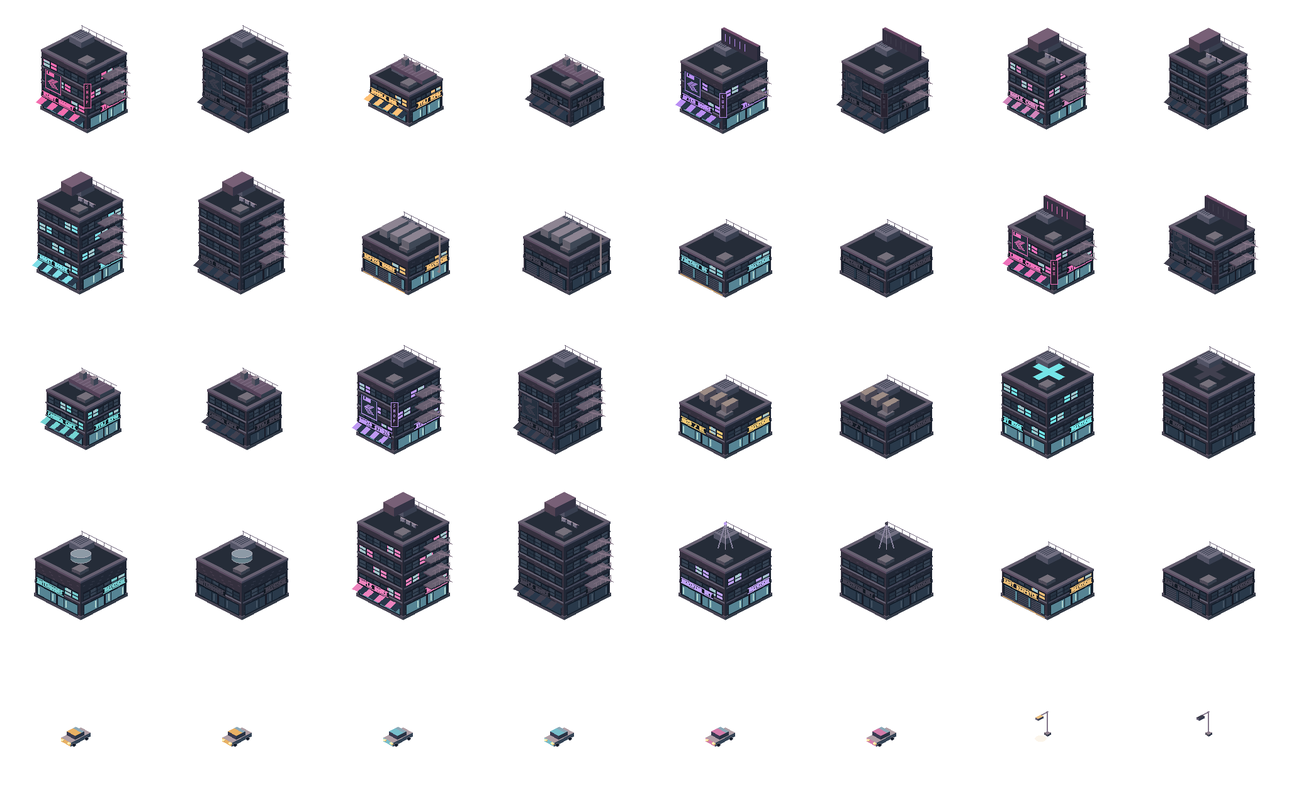
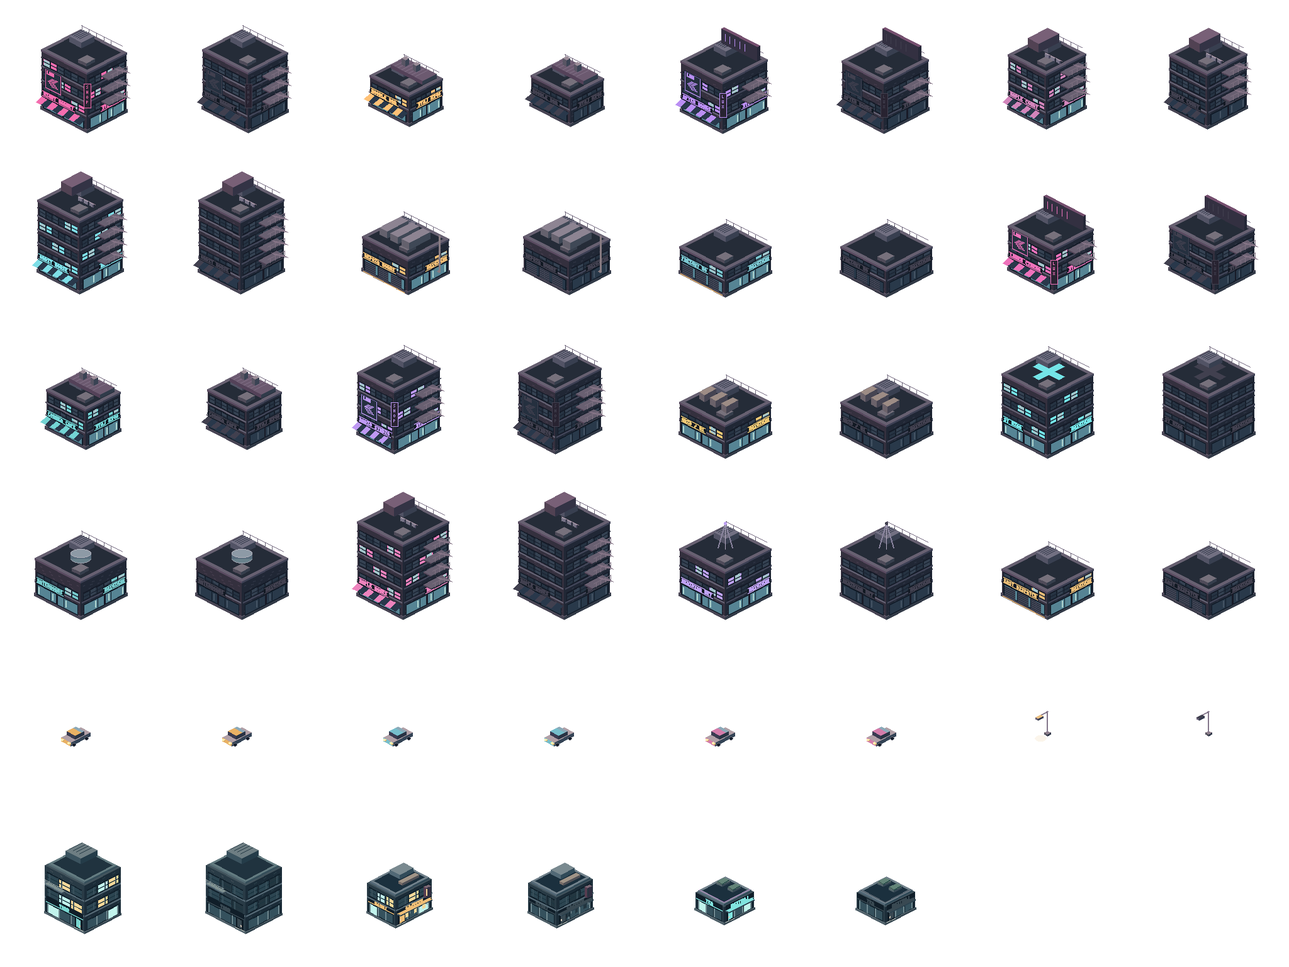
feat: author aligned Lantern Yard architecture and courtyard

diff --git a/tests/browser/lantern-yard.spec.ts b/tests/browser/lantern-yard.spec.ts
@@ -1,0 +1,50 @@
+import {test,expect} from '@playwright/test';
+import {iso} from '../../src/geometry';
+
+test('Lantern Yard is reachable, scenery blocks inspection, and outage lighting restores',async({page},info)=>{
+  await page.emulateMedia({reducedMotion:'reduce'});
+  await page.goto('./');const host=page.locator('.city-canvas');
+  await expect(page.locator('canvas')).toBeVisible();
+  const target=iso(-17.5,-17.5);
+  async function visitYard(){
+    const expand=page.getByRole('button',{name:'Expand minimap'});
+    if(await expand.isVisible())await expand.click();
+    const map=page.getByRole('application',{name:'Interactive city minimap'});
+    if(info.project.name==='desktop'){
+      const landmarks=page.getByRole('combobox',{name:'Minimap landmark navigation'});
+      await landmarks.selectOption('foundry');await landmarks.selectOption('lantern');
+    }else{
+    const point=await map.evaluate((el,p)=>{
+      const q=new DOMPoint(p.x,p.y).matrixTransform((el as SVGSVGElement).getScreenCTM()!);
+      return {x:q.x,y:q.y};
+    },target);
+    await page.touchscreen.tap(point.x,point.y);
+      await page.getByRole('button',{name:'Collapse minimap'}).click();
+    }
+  }
+  await visitYard();
+  await page.locator('.world').screenshot({path:info.outputPath('yard-normal.png')});
+  for(let i=0;i<3;i++)await page.getByRole('button',{name:'Zoom in'}).click();
+  // Near the world edge the initial wide viewport is bounded; recenter after zoom.
+  await visitYard();
+  // A ground-floor facade point on the café is scenery, not a new service.
+  const facade=iso(-17.05,-16.45,12);
+  const view=await host.evaluate(el=>JSON.parse((el as HTMLElement).dataset.camera!));
+  const box=(await host.boundingBox())!;
+  const point={x:box.x+view.origin.x+view.pan.x+facade.x*view.scale,y:box.y+view.origin.y+view.pan.y+facade.y*view.scale};
+  expect(point.x).toBeGreaterThan(box.x);expect(point.x).toBeLessThan(box.x+box.width);
+  expect(point.y).toBeGreaterThan(box.y);expect(point.y).toBeLessThan(box.y+box.height);
+  if(info.project.name==='mobile')await page.touchscreen.tap(point.x,point.y);
+  else await page.mouse.click(point.x,point.y);
+  await expect(page.getByRole('region',{name:'Building inspection'})).not.toBeVisible();
+  await page.locator('.world').screenshot({path:info.outputPath('yard-close.png')});
+  const lit=await page.locator('canvas').screenshot();
+  await page.getByRole('button',{name:'Remove electricity',exact:true}).click();
+  await page.getByRole('button',{name:'Pause simulation'}).click();
+  await page.locator('.world').screenshot({path:info.outputPath('yard-outage.png')});
+  const dark=await page.locator('canvas').screenshot();expect(dark.equals(lit)).toBe(false);
+  await page.getByRole('button',{name:'Restore electricity',exact:true}).click();
+  await page.locator('.world').screenshot({path:info.outputPath('yard-restored.png')});
+  expect((await page.locator('canvas').screenshot()).equals(dark)).toBe(false);
+  await expect(page.getByRole('slider')).not.toHaveValue('24');
+});

diff --git a/src/pixelArt.ts b/src/pixelArt.ts
@@ -2,16 +2,16 @@ import {Assets,Rectangle,Sprite,Texture} from 'pixi.js';
 import {cityModels,type CityModel} from './cityModels.ts';
 import {iso} from './geometry.ts';
 
-export type CityTextures=Record<CityModel,{on:Texture;off:Texture}>&{ground:Texture};
+export type CityTextures=Record<CityModel,{on:Texture;off:Texture}>&{ground:Texture;lanternGround:Texture};
 let cached:Promise<CityTextures>|undefined;
 export function loadCityTextures(){
  return cached??=(async()=>{
-  const [atlas,ground]=await Promise.all([Assets.load<Texture>(new URL('./assets/city-atlas.png',import.meta.url).href),Assets.load<Texture>(new URL('./assets/street-tile.png',import.meta.url).href)]);
-  atlas.source.scaleMode='nearest';ground.source.scaleMode='nearest';
+  const [atlas,ground,lanternGround]=await Promise.all([Assets.load<Texture>(new URL('./assets/city-atlas.png',import.meta.url).href),Assets.load<Texture>(new URL('./assets/street-tile.png',import.meta.url).href),Assets.load<Texture>(new URL('./assets/lantern-yard.png',import.meta.url).href)]);
+  atlas.source.scaleMode='nearest';ground.source.scaleMode='nearest';lanternGround.source.scaleMode='nearest';
   return {...Object.fromEntries(Object.entries(cityModels).map(([id,m])=>{
    const frame=(i:number)=>new Texture({source:atlas.source,frame:new Rectangle(i%8*256,Math.floor(i/8)*256,256,256)});
    return [id,{on:frame(m.index),off:frame(m.index+1)}];
-  })),ground} as CityTextures;
+  })),ground,lanternGround} as CityTextures;
  })();
 }
 export function architecture(textures:CityTextures,id:CityModel,x:number,y:number){

diff --git a/src/worldScenery.ts b/src/worldScenery.ts
@@ -2,6 +2,7 @@ import { buildings } from './simulation.ts';
 import {world,districtAt,places} from './world.ts';
 import {iso,prismFaces,flatten,type Point} from './geometry.ts';
 import {cityModels,type CityModel} from './cityModels.ts';
+import {lanternYard} from './lanternYard.ts';
 
 export interface Rect {x:number;y:number;width:number;height:number}
 export interface Scenery {id:string;x:number;y:number;width:number;depth:number;height:number;variant:number;model:CityModel;district:ReturnType<typeof districtAt>;faces:Point[][];bounds:Rect}
@@ -27,6 +28,9 @@ function add(x:number,y:number,chosen?:CityModel){
 for(let x:number=world.min;x<world.max;x+=5)for(let y:number=world.min;y<world.max;y+=5)
  {const layout=((x/5+y/5)%3+3)%3;
   const place=places.find(p=>p.x===x&&p.y===y);
+  if(x===lanternYard.x&&y===lanternYard.y){
+   lanternYard.parcels.forEach(p=>add(p.x,p.y,p.model));continue;
+  }
   if(place){
    const models:Record<typeof place.layout,CityModel[]>={market:['market','noodle','cafe'],works:['workshop'],housing:['walkup','cafe'],transport:['warehouse','cafe']};
    const m=models[place.layout];add(x+.15,y+.15,m[0]);

diff --git a/src/worldArt.ts b/src/worldArt.ts
@@ -4,13 +4,15 @@ import {cityScenery,sceneryDepth,boundsOf,groundPolygon,polygonNumbers,type Rect
 import {iso} from './geometry.ts';
 import {block} from './cityArt.ts';
 import {architecture,type CityTextures} from './pixelArt.ts';
+import {lanternYard} from './lanternYard.ts';
 
 export interface CullEntry {node:Container;bounds:Rect;kind:'ground'|'scenery'|'service'}
 export function buildWorldArt(parent:Container,textures?:CityTextures){
  const entries:CullEntry[]=[],lights: {g:Graphics;draw:(on:boolean)=>void}[]=[];
  const facades:ReturnType<typeof architecture>[]=[];
  for(const chunk of chunks){
-  const g=textures?new Sprite(textures.ground):new Graphics();g.zIndex=-9999;parent.addChild(g);
+  const yard=chunk.x===lanternYard.x&&chunk.y===lanternYard.y;
+  const g=textures?new Sprite(yard?textures.lanternGround:textures.ground):new Graphics();g.zIndex=-9999;parent.addChild(g);
   if(textures){const p=iso(chunk.x,chunk.y);g.position.set(p.x-200,p.y-12);}
   if(g instanceof Graphics)for(let x=chunk.x;x<chunk.x+5;x++)for(let y=chunk.y;y<chunk.y+5;y++){
    const road=isRoad(x)||isRoad(y),color=road?0x151b29:0x252735;

diff --git a/src/lanternYard.ts b/src/lanternYard.ts
@@ -1,0 +1,11 @@
+// Authored first neighborhood. Coordinates remain in the shared 39:20 world.
+// Frontage offsets reserve the continuous sidewalk and an entrance threshold.
+export const lanternYard = {
+  x: -20, y: -20,
+  court: { x: -19.65, y: -17.7, width: 1.65, depth: 1.25 },
+  parcels: [
+    { x: -19.65, y: -19.65, model: 'yardHouse', entrance: '+y' },
+    { x: -17.65, y: -19.65, model: 'lanternNoodles', entrance: '+x' },
+    { x: -17.65, y: -17.7, model: 'lanternCafe', entrance: 'corner' },
+  ],
+} as const;

diff --git a/src/cityModels.ts b/src/cityModels.ts
@@ -119,6 +119,24 @@ export const cityModels = {
   "width": 0.12,
   "depth": 0.12,
   "height": 36
+ },
+ "yardHouse": {
+  "index": 40,
+  "width": 1.65,
+  "depth": 1.5,
+  "height": 76
+ },
+ "lanternNoodles": {
+  "index": 42,
+  "width": 1.2,
+  "depth": 1.5,
+  "height": 48
+ },
+ "lanternCafe": {
+  "index": 44,
+  "width": 1.2,
+  "depth": 1.25,
+  "height": 28
  }
 } as const;
 export type CityModel = keyof typeof cityModels;

diff --git a/scripts/lantern_art.py b/scripts/lantern_art.py
@@ -1,0 +1,157 @@
+"""Original Lantern Yard architecture; no third-party pixels or fonts.
+
+Shared 39:20 projection and (128,140) ground pivot, rasterized without AA.
+Floor modules are 24 pixels. Facade details follow the two visible planes.
+"""
+from PIL import Image, ImageDraw
+
+MODELS = [
+    ('yardHouse', 1.65, 1.5, 76, 3, 'YARD HOUSE', '#79d5cf', 'yard'),
+    ('lanternNoodles', 1.2, 1.5, 48, 2, 'NOODLES', '#efbe76', 'yard'),
+    ('lanternCafe', 1.2, 1.25, 28, 1, 'LANTERN', '#81e4df', 'yard'),
+]
+
+
+def render(model, powered, font):
+    name, w, d, h, floors, sign, accent, _ = model
+    im = Image.new('RGBA', (256, 256))
+    draw = ImageDraw.Draw(im)
+    light = accent if powered else '#394952'
+    warm = '#f6d899' if powered else '#233640'
+    white = '#c2f3ec' if powered else '#314651'
+
+    def p(x, y, z=0):
+        return round(128 + (x-y)*39), round(140 + (x+y)*20-z)
+
+    def poly(points, color):
+        draw.polygon([p(*v) for v in points], fill=color)
+
+    def line(points, color, width=1):
+        draw.line([p(*v) for v in points], fill=color, width=width)
+
+    def box(x, y, width, depth, bottom, top, colors):
+        poly([(x,y+depth,top),(x+width,y+depth,top),(x+width,y+depth,bottom),(x,y+depth,bottom)], colors[0])
+        poly([(x+width,y,top),(x+width,y+depth,top),(x+width,y+depth,bottom),(x+width,y,bottom)], colors[1])
+        poly([(x,y,top),(x+width,y,top),(x+width,y+depth,top),(x,y+depth,top)], colors[2])
+
+    def panel(side, u, z, width, height, color):
+        if side == 0:
+            poly([(u,d,z),(u+width,d,z),(u+width,d,z+height),(u,d,z+height)], color)
+        else:
+            poly([(w,u,z),(w,u+width,z),(w,u+width,z+height),(w,u,z+height)], color)
+
+    def lettering(side, u, z, text, color):
+        for i, ch in enumerate(text):
+            for n, bit in enumerate(font[ch]):
+                if bit == '1':
+                    panel(side, u+(i*4+n%3)/39, z+4-n//3, 1/39, 1, color)
+
+    def fascia(side, text, z, color):
+        span = w if side == 0 else d
+        panel(side, .08, z, span-.16, 9, '#101e29')
+        panel(side, .08, z, span-.16, 1, color)
+        lettering(side, (span-(len(text)*4-1)/39)/2, z+2, text, color)
+
+    # Cool masonry with a lighter lit face; coherent scale, no glowing outlines.
+    box(0,0,w,d,0,3,('#50616a','#34454f','#65747b'))
+    box(.02,.02,w-.04,d-.04,3,h,('#293b46','#1b2c38','#43545d'))
+    for side, span in [(0,w),(1,d)]:
+        for z in range(7,h-3,5):
+            for i in range(int(span*9)):
+                if (i+z//5)%4 == 0:
+                    panel(side,.07+i*.1,z,.07,1,'#3d4c55' if side==0 else '#293e48')
+        # Tall ground-floor glazing, recessed behind structural piers.
+        panel(side,.1,4,span-.2,16,'#10212c')
+        for i in range(3):
+            u=.14+i*(span-.23)/3
+            panel(side,u,5,(span-.34)/3,13,white if powered and i==0 else '#35515d')
+            panel(side,u,5,.025,13,'#718a91')
+        # Exactly one explicit entrance: court-facing housing, road-facing shop.
+        entrance = (name=='yardHouse' and side==0) or (name!='yardHouse' and side==1)
+        if entrance:
+            panel(side,span-.37,3,.24,17,'#0d1923')
+            panel(side,span-.34,5,.17,13,light)
+            panel(side,span-.2,8,.025,2,'#d7cbbb')
+            panel(side,span-.4,2,.32,1,'#a2aaa6')
+        if name!='yardHouse':
+            fascia(side,sign if side==1 else ('TEA' if name=='lanternCafe' else 'NIGHT'),20,light)
+        for floor in range(1,floors):
+            z=4+floor*24
+            panel(side,.03,z-2,span-.06,2,'#536773')
+            for i in range(3):
+                u=.12+i*(span-.18)/3
+                panel(side,u,z+1,(span-.35)/3,15,'#10202b')
+                panel(side,u+.025,z+3,(span-.43)/3,11,warm if (i+floor+side)%3==0 else white if powered and i==1 else '#2c4551')
+                panel(side,u+.025,z+8,(span-.43)/3,1,'#1c3540')
+                panel(side,u+.1,z+3,.025,11,'#39505b')
+    if name=='yardHouse':
+        # Recessed upper wing creates a deliberate stepped roof silhouette.
+        fascia(0,'YARD',20,light)
+        box(.1,.1,w-.2,d-.2,h,h+3,('#536a72','#354e5a','#637b80'))
+        poly([(.18,.18,h+3),(w-.18,.18,h+3),(w-.18,d-.18,h+3),(.18,d-.18,h+3)],'#20333f')
+        box(.16,.12,.62,.65,h+3,h+12,('#3b535f','#243c49','#6e7e83'))
+        for i in range(4):
+            line([(.2+i*.13,.16,h+13),(.2+i*.13,.65,h+13)],'#273c47')
+        # Small balcony on the court facade, with solid floor and fine rails.
+        box(.12,d-.04,.7,.12,49,51,('#536774','#3b4c59','#819291'))
+        for i in range(5):
+            line([(.14+i*.16,d+.07,51),(.14+i*.16,d+.07,57)],'#768a91')
+        line([(.12,d+.07,57),(.82,d+.07,57)],'#91a1a3')
+    else:
+        # Continuous fascia wraps the corner; canopy stays behind the sidewalk.
+        box(w-.04,.12,.13,d-.24,18,20,('#415563','#2c424f',light))
+        box(.08,.08,w-.16,d-.16,h,h+3,('#526776','#304957','#71818b'))
+        poly([(.16,.16,h+3),(w-.16,.16,h+3),(w-.16,d-.16,h+3),(.16,d-.16,h+3)],'#1b303e')
+        if name=='lanternNoodles':
+            # Roof vent and three lanterns identify the kitchen without a tower.
+            box(.22,.2,.4,.55,h+3,h+10,('#526976','#314b59','#7a8a90'))
+            for i in range(3):
+                u=.3+i*.35
+                line([(w+.07,u,18),(w+.07,u,15)],'#839397')
+                panel(1,u,9,.1,6,warm)
+            # Projected blade sign is attached to the street-facing corner.
+            # Its 0.10-tile projection fits inside the reserved threshold strip.
+            box(w,.18,.10,.18,27,43,('#563d50','#302f42','#7c6874'))
+            x,y=p(w+.1,.36,41)
+            draw.line((x,y,x,y+10),fill=warm,width=2)
+            # Visible roof duct and brick-toned kitchen parapet distinguish it.
+            box(.76,.28,.15,.65,h+3,h+7,('#776c68','#4f5056','#a09487'))
+        else:
+            # Low violet roof cap and two roof planters leave the junction open.
+            line([(.1,d-.1,h+4),(w-.1,d-.1,h+4),(w-.1,.1,h+4)],'#bd8aca' if powered else '#48505d')
+            for u in [.2,.65]:
+                box(u,.25,.22,.3,h+3,h+6,('#52636a','#354754','#738079'))
+                box(u+.02,.27,.18,.26,h+6,h+8,('#425e58','#294c4c','#638478'))
+    return im
+
+
+def ground(street):
+    """A usable court, passages and thresholds inside the unchanged road block."""
+    im = street.copy()
+    draw = ImageDraw.Draw(im)
+
+    def p(x,y): return round(200+(x-y)*39), round(12+(x+y)*20)
+
+    def tile(x,y,w,d,color):
+        draw.polygon([p(x,y),p(x+w,y),p(x+w,y+d),p(x,y+d)],fill=color)
+
+    # Connected passages to street sidewalks and the apartment's court door.
+    tile(.28,.28,3.44,3.44,'#303e49')
+    for i in range(14):
+        a=.28+i*.25
+        draw.line([p(.28,a),p(3.72,a)],fill='#3c4c57')
+        draw.line([p(a,.28),p(a,3.72)],fill='#3a4955')
+    tile(.35,2.3,1.65,1.25,'#4a555c')
+    for i in range(5):
+        draw.line([p(.35,2.3+i*.25),p(2,2.3+i*.25)],fill='#69716e')
+    # Seating strip and planted corner make the open parcel purposeful.
+    tile(.48,3.23,.95,.13,'#9a8c74')
+    tile(.48,3.38,.95,.06,'#263d43')
+    tile(.48,2.48,.3,.4,'#65716e')
+    tile(.52,2.52,.22,.32,'#45695e')
+    tile(1.58,3.13,.27,.27,'#65716e')
+    tile(1.62,3.17,.19,.19,'#567766')
+    # Door threshold paving stays out of the road and full sidewalk bands.
+    tile(3.55,1.47,.17,.3,'#86918a')
+    tile(3.55,3.17,.17,.3,'#86918a')
+    return im

diff --git a/scripts/build-city-art.py b/scripts/build-city-art.py
@@ -6,6 +6,7 @@ external fonts, downloaded textures or random glyphs. Frames share one atlas.
 from pathlib import Path
 import json
 from PIL import Image, ImageDraw
+import lantern_art
 
 ROOT = Path(__file__).resolve().parents[1]
 MODELS = [
@@ -31,6 +32,7 @@ MODELS = [
     ('carPink',.38,.8,14,0,'','#d37caa','car'),
     ('streetlamp',.12,.12,36,0,'','#ebc082','lamp'),
 ]
+MODELS.extend(lantern_art.MODELS)
 # 3x5 hand-authored bitmap lettering, original readable words rather than glyph spam.
 FONT = dict(zip('ABCDEFGHIJKLMNOPQRSTUVWXYZ0123456789 /-',[
  '010101111101101','110101110101110','011100100100011','110101101101110',
@@ -46,6 +48,8 @@ FONT = dict(zip('ABCDEFGHIJKLMNOPQRSTUVWXYZ0123456789 /-',[
 
 def make(model, powered):
     name,w,d,h,floors,sign,accent,role=model
+    if role == 'yard':
+        return lantern_art.render(model, powered, FONT)
     im=Image.new('RGBA',(256,256)); g=ImageDraw.Draw(im)
     light=accent if powered else '#41404f'
     warm='#e7b36f' if powered else '#343643'
@@ -213,5 +217,6 @@ for x in range(1,4):
         px,py=sp(x,y);g.line((px,py,px+2,py+1),fill='#3e3d4b')
 tile(3.2,2.8,.22,.16,'#62616c')
 street.save(out/'street-tile.png',optimize=True)
+lantern_art.ground(street).save(out/'lantern-yard.png',optimize=True)
 (ROOT/'src/cityModels.ts').write_text('// Generated by scripts/build-city-art.py; original Ctrl Z art.\nexport const cityModels = '+json.dumps(metadata,indent=1)+' as const;\nexport type CityModel = keyof typeof cityModels;\n',encoding='utf-8')
 print(f'Wrote {len(MODELS)} original models, powered/unpowered, one {atlas.width}x{atlas.height} atlas')

diff --git a/DEVELOPMENT_STATUS.md b/DEVELOPMENT_STATUS.md
@@ -1,5 +1,17 @@
 # Ctrl Z - Development Status
 
+## Lantern Yard architectural exemplar — 2026-11-14
+
+Fetched origin and inspected PR #1 before this checkpoint. GitHub main is merge commit `0334947d0762868dccd25895919ca677fce46db5`, with parents `9fcac4a` and `154fd5b`. Its tree matches the previously pushed documentation checkpoint exactly; no documentation re-import or automatic branch merge was performed. Development continues on `neon-city-antahonist-from-27`, retaining the commit-27 runtime baseline and excluding rejected commit-28/29 designs. Local main was not moved.
+
+Implemented the first authored Lantern Yard block: three original atlas models (Yard House, Lantern Noodles and a low corner café), explicit street-facing placements, 24-pixel floor modules, recessed roofs/roof plant, projected shop signs and entrances, continuous sidewalk clearance, connected passages and a paved court with seating/planting. `scripts/lantern_art.py` generates these assets through the existing atlas pipeline; `src/lanternYard.ts` owns placements. A single 400×224 ground variant replaces the existing block texture at Lantern Yard. Roads, all six services, minimap destinations, camera bounds, simulation, v1 saves and deployment workflows are unchanged. No paid kit sprites or reference pixels are shipped.
+
+Validation: **69 unit checks**, all **46 existing desktop/mobile browser specifications**, **two new neighborhood browser checks**, and the production build pass. New coverage checks frontage/court clearance, retained powered/unpowered frames, scenery picking, minimap arrival, real facade input and visible outage/restoration. The later roof/sign art refinement was revalidated with the two focused browser checks, unit suite and build. Atlas is now 163.35 kB (23 models, 2048×1536); the local ground variant is 4.83 kB. Existing benchmark views still record 30 drag draw calls and zero idle calls under reduced motion; these are Chromium software-rendering observations, not phone FPS.
+
+Actual desktop/mobile normal and close renders plus outage/restored views were inspected. A capture initially drifted away from the edge neighborhood after zoom; the new browser check recenters after zoom, preserving baseline camera behavior. Visual review also led to a darker recessed roof and a small projected noodle-bar sign. The mobile close view clearly separates the taller house, kitchen frontage and low café/court. Existing surrounding blocks remain repetitive; this is one completed exemplar, not a completed city redesign or a claim of final reference fidelity. Curated close-view evidence is in `docs/lantern-review/`; full captures remain in ignored test-results.
+
+Next independently tested checkpoint: compose the adjacent repair/loading and residential blocks around the same junction, with matching frontage scale and sightlines. Then replace selected crosshatch streets with purposeful shared road data for ground/minimap/routing. Broader district expansion, improved opening composition, all-corner review and real-device profiling remain unfinished. Commit and verify each completed checkpoint on the development branch; do not automatically merge to main or deploy it.
+
 ## Continuation documentation milestone — 2026-11-14
 
 Before changes, local `main` and live GitHub `refs/heads/main` both resolved to approved baseline `9fcac4a4e1e06a549bda4f51b4b1c5f3e09d823f`. No restoration, reset or rejected commit import was required. The handoff was initially the only untracked file. `CODEX_NEON_CITY_FROM_COMMIT_27.md` appeared during inspection; the creator subsequently requested incorporating its instructions. Fetched origin and created `neon-city-antahonist-from-27` directly at the verified baseline, preserving all current changes. Tested checkpoints now publish to this branch; main integration/deployment requires separate approval.

diff --git a/CODEX_HANDOFF_README.md b/CODEX_HANDOFF_README.md
@@ -6,6 +6,12 @@ This document is for a Codex account with no conversation history. It records th
 
 ## Continuation receipt — 14 November 2026
 
+PR #1 merged the documentation checkpoint into GitHub main as `0334947d0762868dccd25895919ca677fce46db5`. Origin was fetched and inspected before the next development commit: this merge has parents `9fcac4a` and `154fd5b`, and its tree exactly matches the development branch's documentation checkpoint. Runtime source, tests, assets and workflows at that merge remain identical to commit 27. No repeat documentation import or branch merge was needed. The local main ref remains at commit 27; `origin/main` records the merge. Continue on `neon-city-antahonist-from-27` and check live branch state before future integration.
+
+The first runtime checkpoint now implements the Lantern Yard block with three original project models, 24-pixel floor modules, street-facing shop entrances, a lower corner café, stepped apartment roof, and a paved/seated/planted court. `scripts/lantern_art.py` extends the existing offline atlas generator; `src/lanternYard.ts` owns authored placement. Paired frames retain grid-responsive scenery lighting. No paid kit pixels or rejected designs are used. Validation and remaining visual work are recorded in DEVELOPMENT_STATUS.md; the broader neighborhood and street-network redesign remain unfinished.
+
+Runtime checkpoint validation: 69 unit checks, 46 existing browser specifications and two new desktop/mobile neighborhood checks pass; production build passes. The final roof/sign refinement passed the focused neighborhood checks, unit suite and build. Actual normal/close/outage/restored renders were inspected; curated desktop/mobile close views are in `docs/lantern-review`. Existing surroundings remain repetitive, and no whole-city visual completion is claimed. Next: adjacent authored repair/loading and residential blocks, followed by deliberate streets shared by ground/minimap/routing. The atlas is 163.35 kB with 23 models; the new ground variant is 4.83 kB. All service IDs/coordinates, simulation, minimap, v1 saves and deployment configuration remain unchanged.
+
 Development has resumed under the creator's new instructions. The original preparation receipt and file-only restrictions below describe the earlier handoff session, not the current authorization. The creator explicitly requests committing this handoff in the first documentation milestone.
 
 Before edits, local `main` and live GitHub `refs/heads/main` were both verified as `9fcac4a4e1e06a549bda4f51b4b1c5f3e09d823f`. No baseline restoration or history change was needed. Only this handoff was initially untracked. `CODEX_NEON_CITY_FROM_COMMIT_27.md` subsequently appeared during inspection. The creator then explicitly requested incorporating its instructions and the frequent-checkpoint workflow. After fetching origin, the new development branch `neon-city-antahonist-from-27` was created directly at the verified commit-27 SHA, preserving all documentation work. Main remains at the baseline.

diff --git a/src/assets/README.md b/src/assets/README.md
@@ -1,5 +1,7 @@
 # Original Ctrl Z city art
 
+Lantern Yard adds three original models and `lantern-yard.png`, authored in `scripts/lantern_art.py` and built by the same generator. These use the existing atlas/pivot/projection, 24-pixel floor modules, street-facing entrances, a stepped apartment roof, low café roof and paved court. They are original project art inspired by Antahonist's architectural principles, not purchased kit sprites. The ground variant covers only the existing Lantern Yard block; roads and crossings retain the shared world alignment.
+
 city-atlas.png and street-tile.png are original, locally authored project assets generated by scripts/build-city-art.py. No reference pixels, external fonts, downloaded textures or generated-image assets are embedded. The reference images remain design guidance only.
 
 Rebuild: install Pillow in your Python environment, then run `python scripts/build-city-art.py`. Normal Node builds use the committed PNGs and generated cityModels.ts; Python is not required for players or CI. Projection is 39:20 world pixels. Building frames are 256x256 with origin (128,140), powered/unpowered pairs; the 400x224 ground texture has origin (200,12) and exactly covers one five-tile block. Pixel sampling is nearest-neighbor. Update model metadata and geometry together when changing silhouettes.

diff --git a/docs/NEON_NEIGHBORHOOD_PLAN.md b/docs/NEON_NEIGHBORHOOD_PLAN.md
@@ -2,6 +2,8 @@
 
 Prepared 14 November 2026 against `9fcac4a4e1e06a549bda4f51b4b1c5f3e09d823f`. This is a design and implementation plan, not a claim that the new neighborhood is rendered or visually accepted.
 
+Progress: the documentation checkpoint merged as PR #1 / `0334947`. The first three-building Lantern Yard block is now implemented with original project art, authored placements and its court ground variant. DEVELOPMENT_STATUS.md records tests and actual screenshot review; the surrounding neighborhood, shared street redesign and visual acceptance remain outstanding. The proposal below remains the expansion contract.
+
 ## Reference and asset route
 
 Primary: [Neon City: Cyberpunk Pixel Building Kit by Antahonist](https://antahonist.itch.io/neon-city-cyberpunk-pixel-building-kit). Secondary: `design/pixel-city-reference-2.png`. The official banner and local secondary image were opened during this continuation. Mekai Games is not the governing reference. The public banner is retained only in ignored `test-results`, not shipped or committed as game art.
